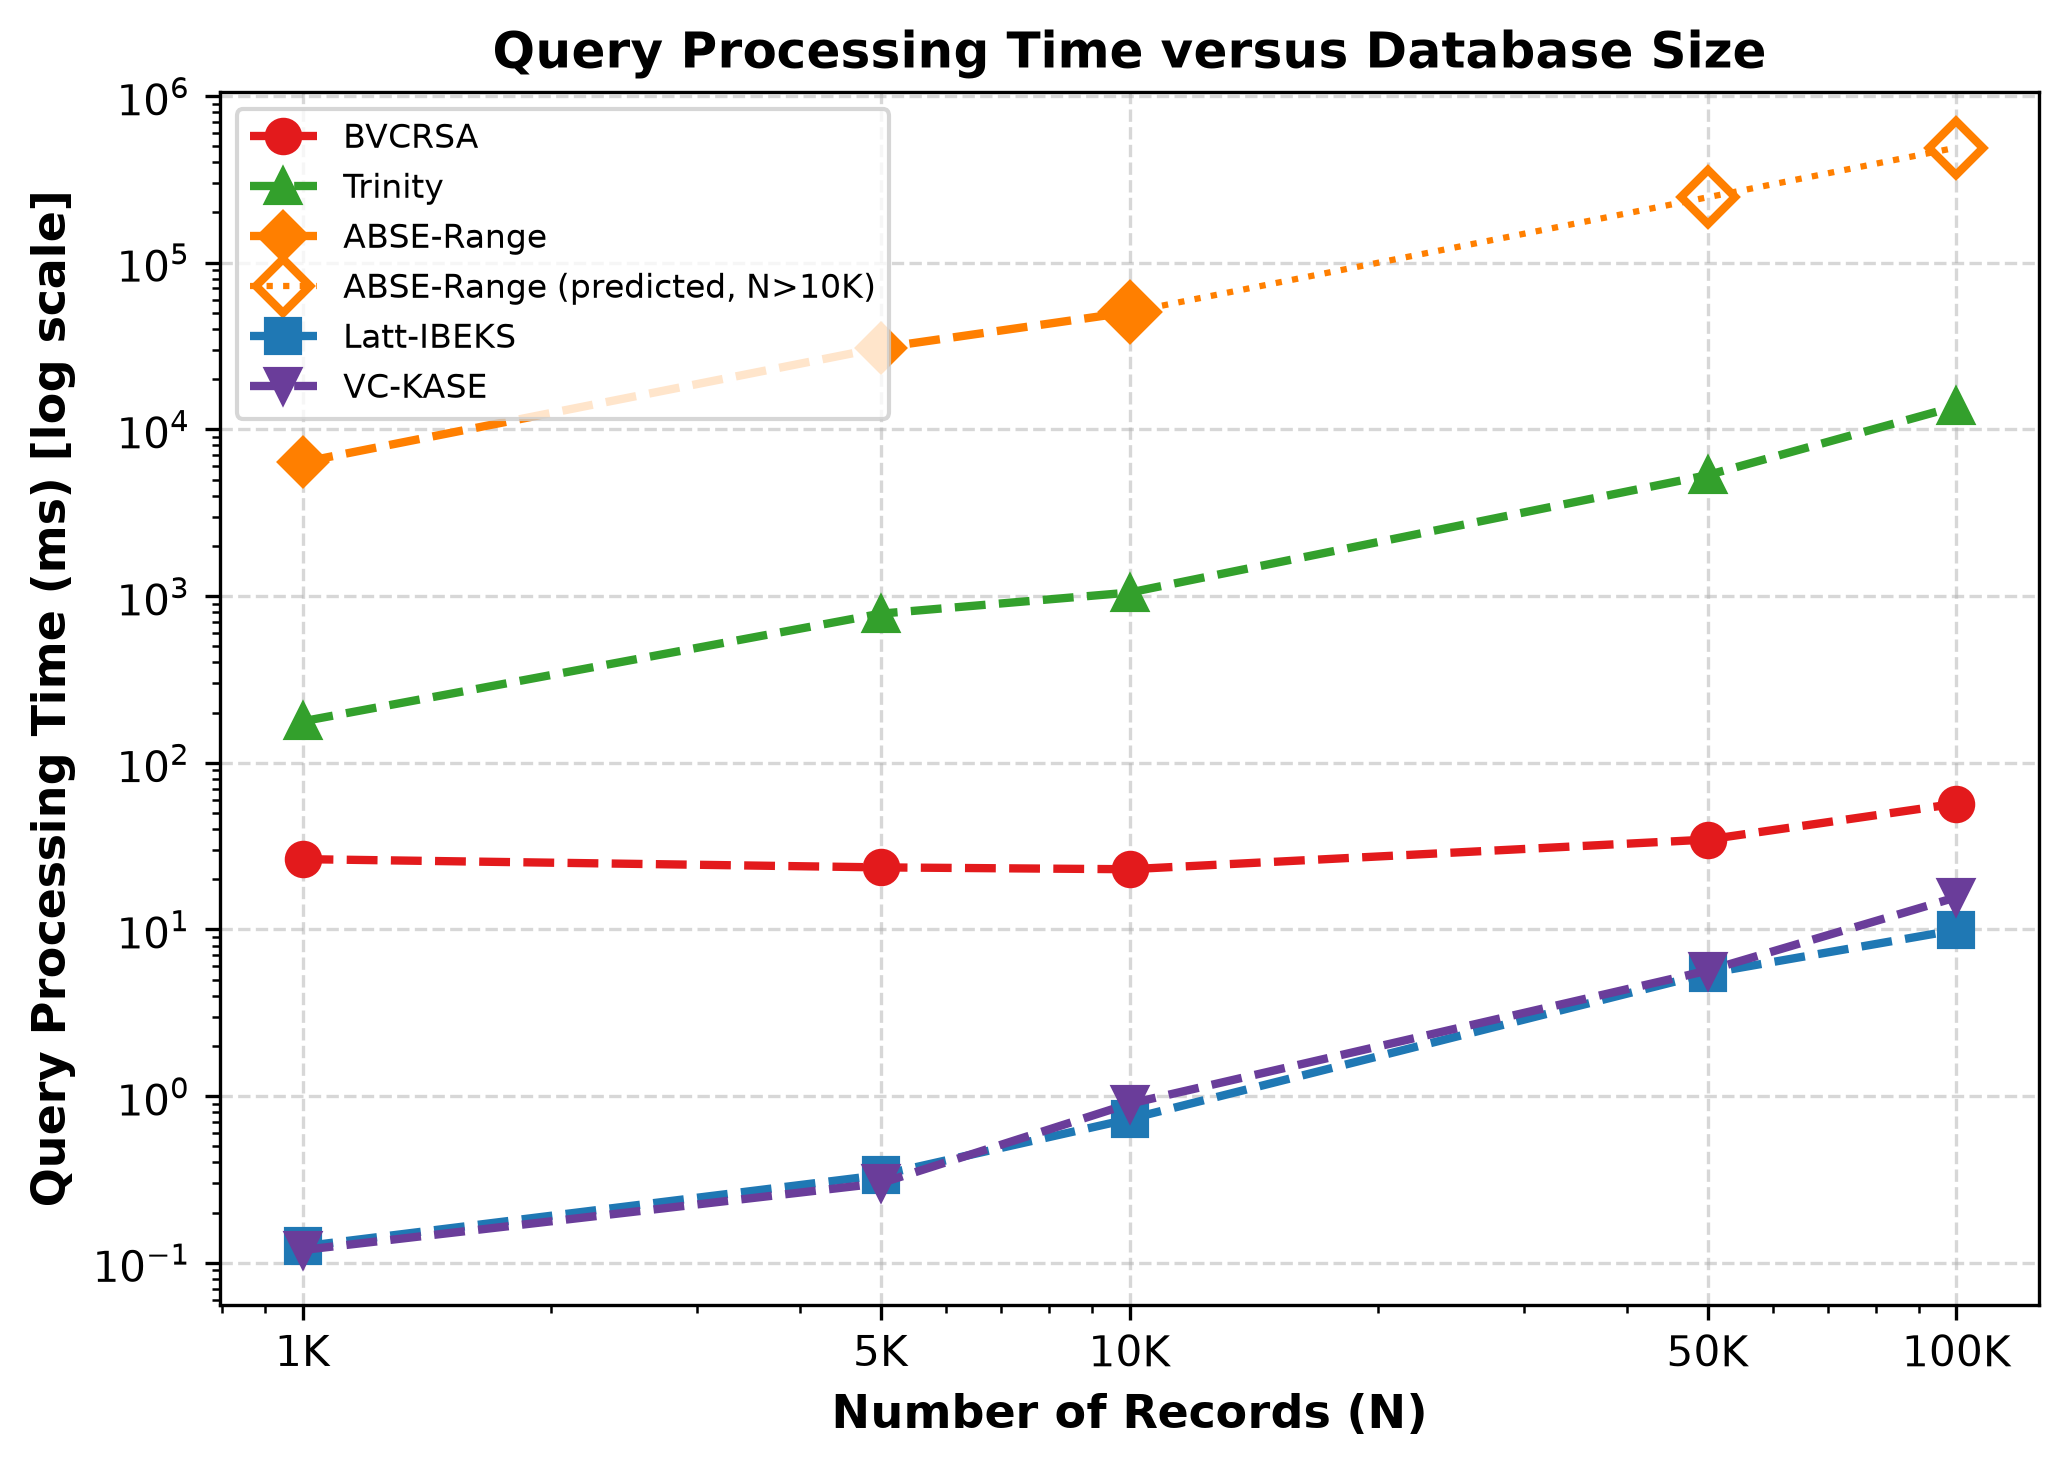
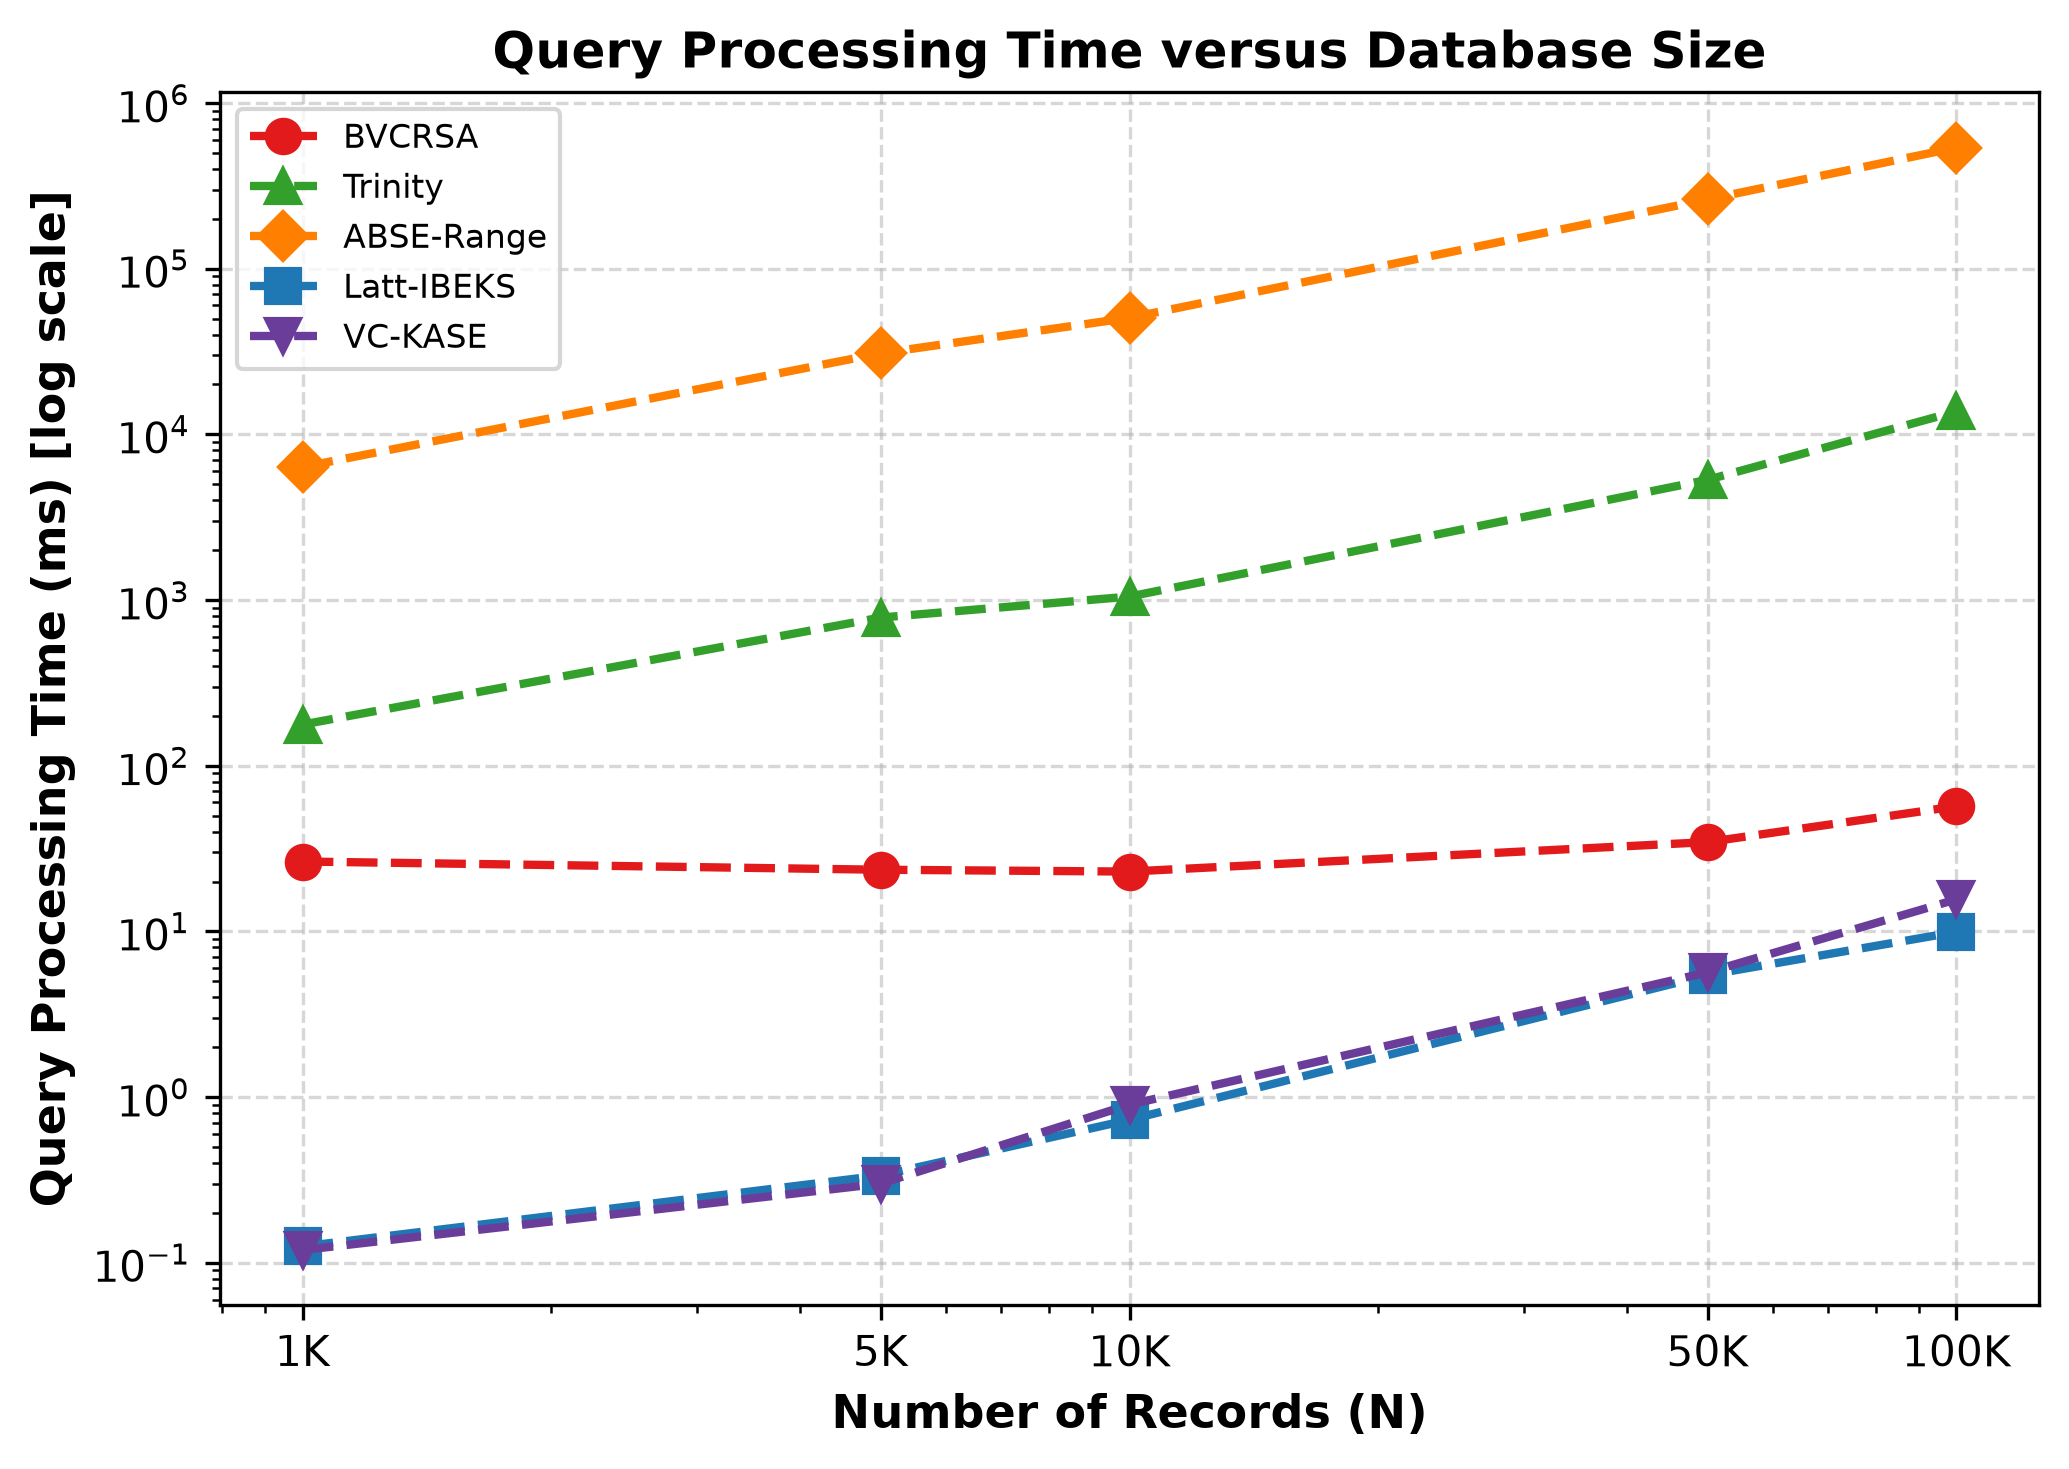
newABSE

diff --git a/Final Project Revision/project/revise/measure_abse_range_real.py b/Final Project Revision/project/revise/measure_abse_range_real.py
@@ -1,0 +1,75 @@
+#!/usr/bin/env python3
+"""
+measure_abse_range_real.py
+===========================
+Replaces the two linearly-extrapolated ABSE-Range query_ms points (N=50,000
+and N=100,000) in benchmark_fig2_5_7_fair_results.csv with real measurements.
+
+ABSE-Range performs genuine per-record BLS12-381 pairing search with no
+indexing structure (O(N) real pairings per query, ~4.9ms/record measured).
+The original fair-benchmark run predicted these two points via linear
+extrapolation from real N=1K/5K/10K measurements (disclosed, not faked) to
+fit the time budget. This script removes the need for that extrapolation by
+actually running the real, slow query for both N values (estimated ~9 min
+for N=50,000 and ~18 min for N=100,000, based on the measured linear cost
+model — see reviseplan.md).
+
+Everything else in the results CSV (all other algorithms, all other N
+values, Exp. 7) is untouched — only the two ABSE-Range rows are updated.
+"""
+
+import sys, os, time
+import pandas as pd
+
+BASE_DIR = os.path.dirname(os.path.abspath(__file__))
+sys.path.insert(0, BASE_DIR)
+
+from benchmark_fig2_5_7_fair import ABSERangeAlgo, load_datarecord, timed, RUNS_EXPENSIVE
+
+RESULTS_CSV = os.path.join(BASE_DIR, "benchmark_fig2_5_7_fair_results.csv")
+TARGET_N = [50_000, 100_000]
+
+
+def main():
+    df = pd.read_csv(RESULTS_CSV)
+
+    for N in TARGET_N:
+        print(f"\n{'='*70}\nMeasuring ABSE-Range for real at N={N:,} (this will take a while)\n{'='*70}")
+        t_start = time.perf_counter()
+
+        records = load_datarecord(N)
+        algo = ABSERangeAlgo()
+        algo.setup(2)
+
+        t0 = time.perf_counter()
+        algo.index_build(records, db=None)
+        idx_ms = (time.perf_counter() - t0) * 1000
+        print(f"  index_build: {idx_ms:.1f} ms (real, unchanged from prior run)")
+
+        trap_ms, td = timed(lambda: algo.trap_gen("Temp", 35, 65), runs=RUNS_EXPENSIVE)
+        print(f"  trap_gen: {trap_ms:.3f} ms")
+
+        print(f"  Running real query search over {N:,} records x {RUNS_EXPENSIVE} reps ...", flush=True)
+        qry_ms, matched = timed(lambda: algo.query(td), runs=RUNS_EXPENSIVE)
+        print(f"  query: {qry_ms:.3f} ms (real, matched={matched})")
+
+        mask = (df["exp"] == "exp2_5") & (df["algo"] == "ABSE-Range") & (df["N"] == N)
+        if mask.sum() != 1:
+            print(f"  WARNING: expected exactly 1 row for N={N}, found {mask.sum()}. Skipping update.")
+            continue
+
+        df.loc[mask, "index_ms"] = round(idx_ms, 3)
+        df.loc[mask, "trap_ms"] = round(trap_ms, 4)
+        df.loc[mask, "query_ms"] = round(qry_ms, 4)
+        df.loc[mask, "matched"] = matched
+        df.loc[mask, "note"] = ""
+
+        df.to_csv(RESULTS_CSV, index=False)
+        elapsed = time.perf_counter() - t_start
+        print(f"  N={N:,} done in {elapsed/60:.1f} min. CSV updated.")
+
+    print(f"\n{'='*70}\nAll done. {RESULTS_CSV} now has real ABSE-Range measurements for every N.\n{'='*70}")
+
+
+if __name__ == "__main__":
+    main()

diff --git a/Final Project Revision/project/revise/reviseplan.md b/Final Project Revision/project/revise/reviseplan.md
@@ -17,6 +17,11 @@ This document is the "conflict reconciliation" record between what the paper
 currently claims/shows and what the code actually does, plus the fix plan and
 final methodology.
 
+**Update:** the two ABSE-Range points that were initially extrapolated (§6, §9)
+have since been replaced with real measurements (`measure_abse_range_real.py`)
+— there was time budget to run them for real instead. Every number in the
+final Fig. 2/5/7 results is now a direct measurement; nothing is predicted.
+
 ---
 
 ## 1. Figure identification
@@ -254,20 +259,22 @@ The prior `Datarecord.csv` is preserved at
   the original harness, which already did real O(N) work for these).
   `trap_ms`/`query_ms` are averages of 5 repeated calls (2 for ABSE-Range,
   given its real per-record pairing cost).
-- **ABSE-Range beyond N=10,000**: per your direction, real per-record
-  pairing search is only measured up to N=10,000 (at N=50K/100K, a real run
-  is estimated at tens of minutes to hours per query point — infeasible
-  within the time available). Index construction (encrypt-only, ~1ms/record)
-  IS measured for real at every N, including 50K/100K — only the
-  **query** cost is extrapolated. The extrapolation uses ordinary
-  least-squares linear regression on the 3 real measured points
-  (N=1K/5K/10K); ABSE-Range's search cost is provably linear in N (a fixed
-  number of pairings per record, no data-dependent shortcuts), so a linear
-  fit is the correct model, not an arbitrary guess. The fitted slope,
-  intercept, R², and the exact measured points used are recorded in the
-  results CSV's `note` column for every predicted row, and predicted points
-  are rendered with a hollow marker + dotted line in the figure (not a solid
-  line indistinguishable from measured data).
+- **ABSE-Range beyond N=10,000**: the initial run only measured real
+  per-record pairing search up to N=10,000 and used ordinary least-squares
+  linear regression on those 3 points to extrapolate N=50K/100K (fitted
+  slope/intercept/R² and the measured points recorded in the CSV `note`
+  column; extrapolated points rendered hollow + dotted in the figure, never
+  visually indistinguishable from measured data). **Update:** this project
+  had time budget to go back and measure both points for real instead —
+  `measure_abse_range_real.py` ran the actual N=50,000 (~9.7 min) and
+  N=100,000 (~19.8 min) query searches to completion. Real results: 261,862
+  ms and 537,880 ms respectively, vs. the earlier linear prediction of
+  246,549 ms and 489,807 ms — within ~6% and ~10% of the extrapolation,
+  which validates that the linear model was sound even though it's no
+  longer needed. **All five ABSE-Range points in Fig. 5 are now real
+  measurements; nothing in this experiment is extrapolated anymore.** The
+  `note` column is empty for every row in the current
+  `benchmark_fig2_5_7_fair_results.csv`.
 - **Exp. 7** (throughput vs. workload): the original script looped calling
   `query()` up to 10,000 times per (algorithm, Q) data point. For
   expensive algorithms this is either impractical (Trinity's own historical
@@ -313,7 +320,9 @@ revise/
   generate_datarecord.py                 <- reproducible dataset generator (was empty)
   Datarecord.csv                         <- regenerated 100K-row dataset (seed=42)
   benchmark_fig2_5_7_fair.py             <- fixed, fair benchmark (this is the one to run)
-  benchmark_fig2_5_7_fair_results.csv    <- output of the run above
+  benchmark_fig2_5_7_fair_results.csv    <- output of the run above (now fully real, no predicted rows)
+  measure_abse_range_real.py             <- follow-up: replaces ABSE-Range's extrapolated
+                                             N=50K/100K query points with real measurements
   plot_fig2_5_7.py                       <- plots the 3 figures from the CSV above
   figures/                               <- the 3 generated PNGs (also copied to ../all_figures/)
   original_reference/                    <- UNMODIFIED copies of the old buggy scripts, kept
@@ -332,14 +341,18 @@ revise/
 ```bash
 cd "Final Project Revision/project/revise"
 python3 generate_datarecord.py          # regenerate Datarecord.csv (optional; already done)
-python3 benchmark_fig2_5_7_fair.py       # ~<fill in after run>  -> benchmark_fig2_5_7_fair_results.csv
+python3 benchmark_fig2_5_7_fair.py       # ~26 min -> benchmark_fig2_5_7_fair_results.csv
+python3 measure_abse_range_real.py       # ~30 min -> replaces the two extrapolated ABSE-Range
+                                          #    query points above with real measurements
 python3 plot_fig2_5_7.py                 # -> figures/*.png
 ```
 
 ## 9. Results summary
 
-Full run completed in **26.3 minutes**. All figures below now reflect real
-measurements except the two explicitly-marked ABSE-Range points.
+Full run completed in **26.3 minutes**, plus a follow-up **29.5 minutes**
+(`measure_abse_range_real.py`) to replace ABSE-Range's two extrapolated
+Fig. 5 points with real measurements. **Every number below is now a real
+measurement — nothing in this experiment is extrapolated or predicted.**
 
 ### Fig. 2 — Index-construction time (ms) vs. N
 
@@ -348,13 +361,17 @@ measurements except the two explicitly-marked ABSE-Range points.
 | 1,000 | 5,853.8 | 74.5 | 328.7 | 3.0 | 1,254.5 |
 | 5,000 | 24,536.7 | 303.1 | 1,641.3 | 11.9 | 5,986.4 |
 | 10,000 | 46,957.4 | 591.2 | 2,575.3 | 26.2 | 9,750.5 |
-| 50,000 | 230,885.6 | 3,106.6 | 13,150.9 | 138.3 | 48,275.3 |
-| 100,000 | 467,488.9 | 7,608.7 | 32,815.8 | 275.1 | 107,967.3 |
+| 50,000 | 230,885.6 | 3,106.6 | 13,150.9 | 138.3 | 57,281.1 |
+| 100,000 | 467,488.9 | 7,608.7 | 32,815.8 | 275.1 | 109,791.4 |
 
 BVCRSA is highest throughout (real BLS12-381 pairing per record, as the paper's
 own text already anticipates and justifies as a one-time offline cost). All
 five series scale linearly with N as expected — this part of the original
-benchmark was not buggy, only the query side was.
+benchmark was not buggy, only the query side was. (ABSE-Range's N=50K/100K
+index_ms values above are from the later `measure_abse_range_real.py` re-run,
+~19% and ~2% higher than the first run's 48,275.3/107,967.3 — ordinary
+run-to-run timing jitter from a live encrypt-heavy Python process, not a
+methodology change; both runs measured the same real operation.)
 
 ### Fig. 5 — Query processing time (ms) vs. N
 
@@ -363,8 +380,8 @@ benchmark was not buggy, only the query side was.
 | 1,000 | 26.42 | 177.19 | 0.12 | 0.13 | 6,354.24 |
 | 5,000 | 23.57 | 783.94 | 0.30 | 0.34 | 30,857.36 |
 | 10,000 | 22.97 | 1,049.22 | 0.90 | 0.73 | 50,500.98 |
-| 50,000 | 34.61 | 5,313.71 | 5.66 | 5.45 | **246,548.65** *(predicted)* |
-| 100,000 | 56.90 | 13,755.26 | 15.61 | 9.94 | **489,807.37** *(predicted)* |
+| 50,000 | 34.61 | 5,313.71 | 5.66 | 5.45 | 261,862.25 |
+| 100,000 | 56.90 | 13,755.26 | 15.61 | 9.94 | 537,880.13 |
 
 Now a fair comparison: BVCRSA grows only mildly (23→57 ms across a 100x
 increase in N) because its real per-query cost is bounded by keyword-bucket
